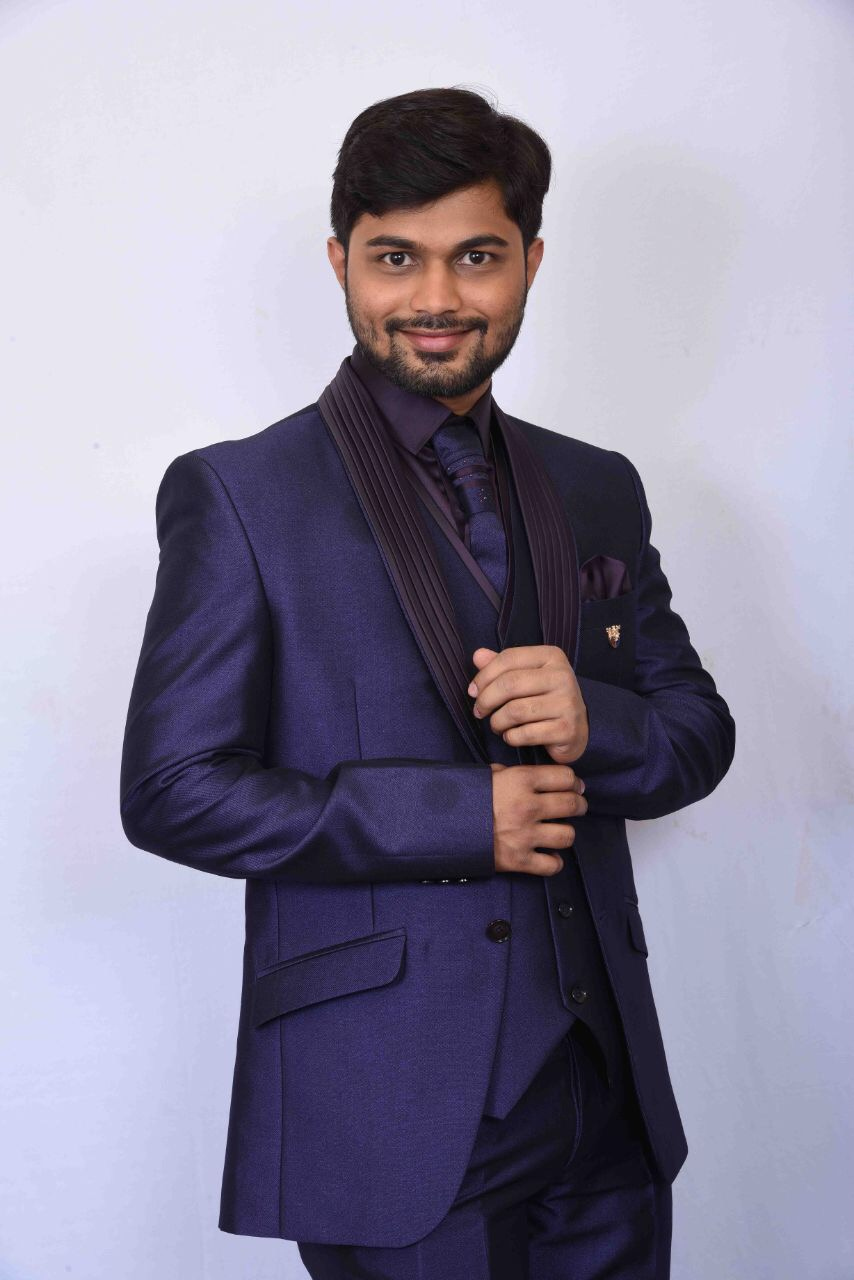
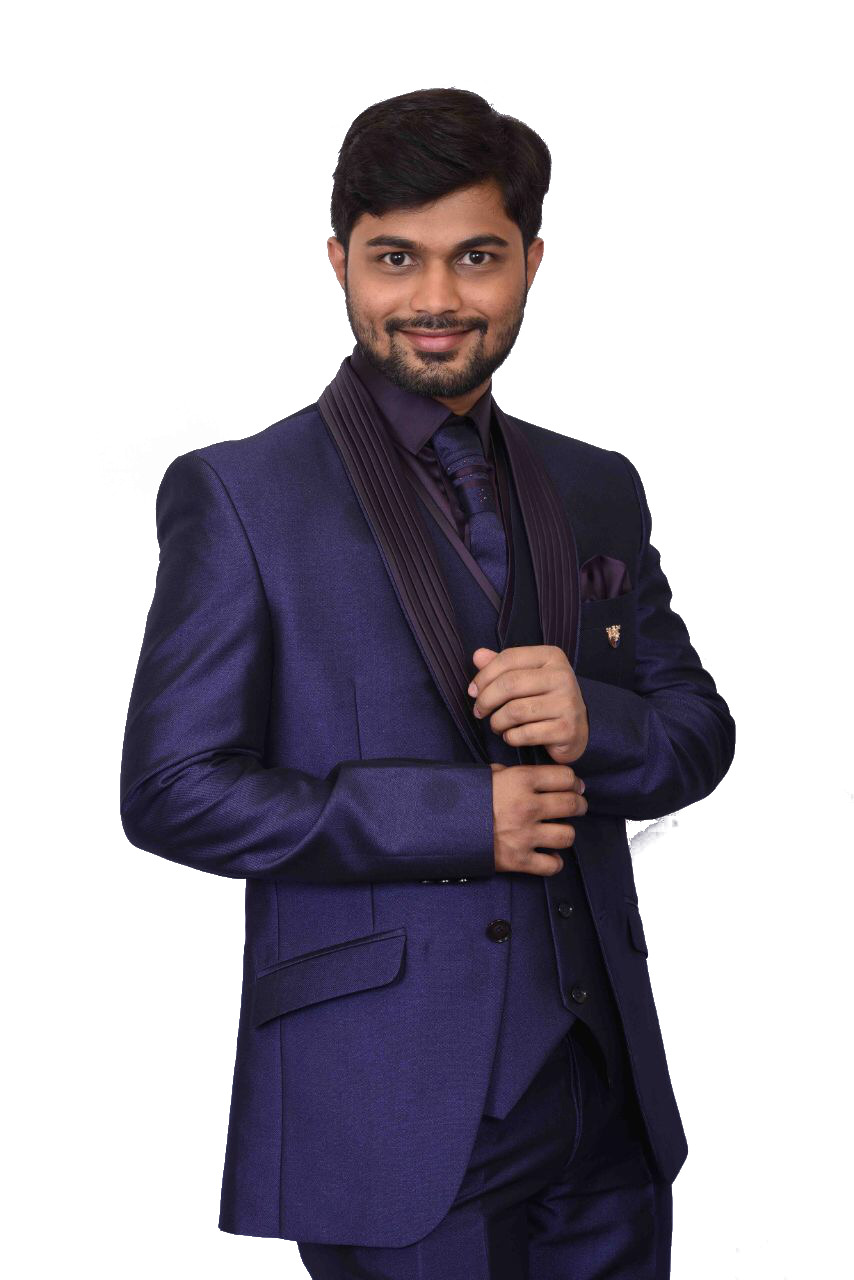
Fix images - remove background

diff --git a/index.html b/index.html
@@ -67,9 +67,11 @@
             <div class="col-md-10 col-md-offset-1">
                 <div class="hero-content text-center">
                     <!--<h1>Sachin and Roshni</h1>-->
-                    <img src="img/logo-lg.png">
                     <!--<p class="intro">Sachin & Roshni are getting hitched!</p>-->
                     <!--<a href="#" class="btn btn-fill btn-large btn-margin-right">Scroll Down</a> -->
+                </div>
+                <div class="text-center">
+                    <img src="img/logo-lg.png">
                 </div>
             </div>
         </div>
